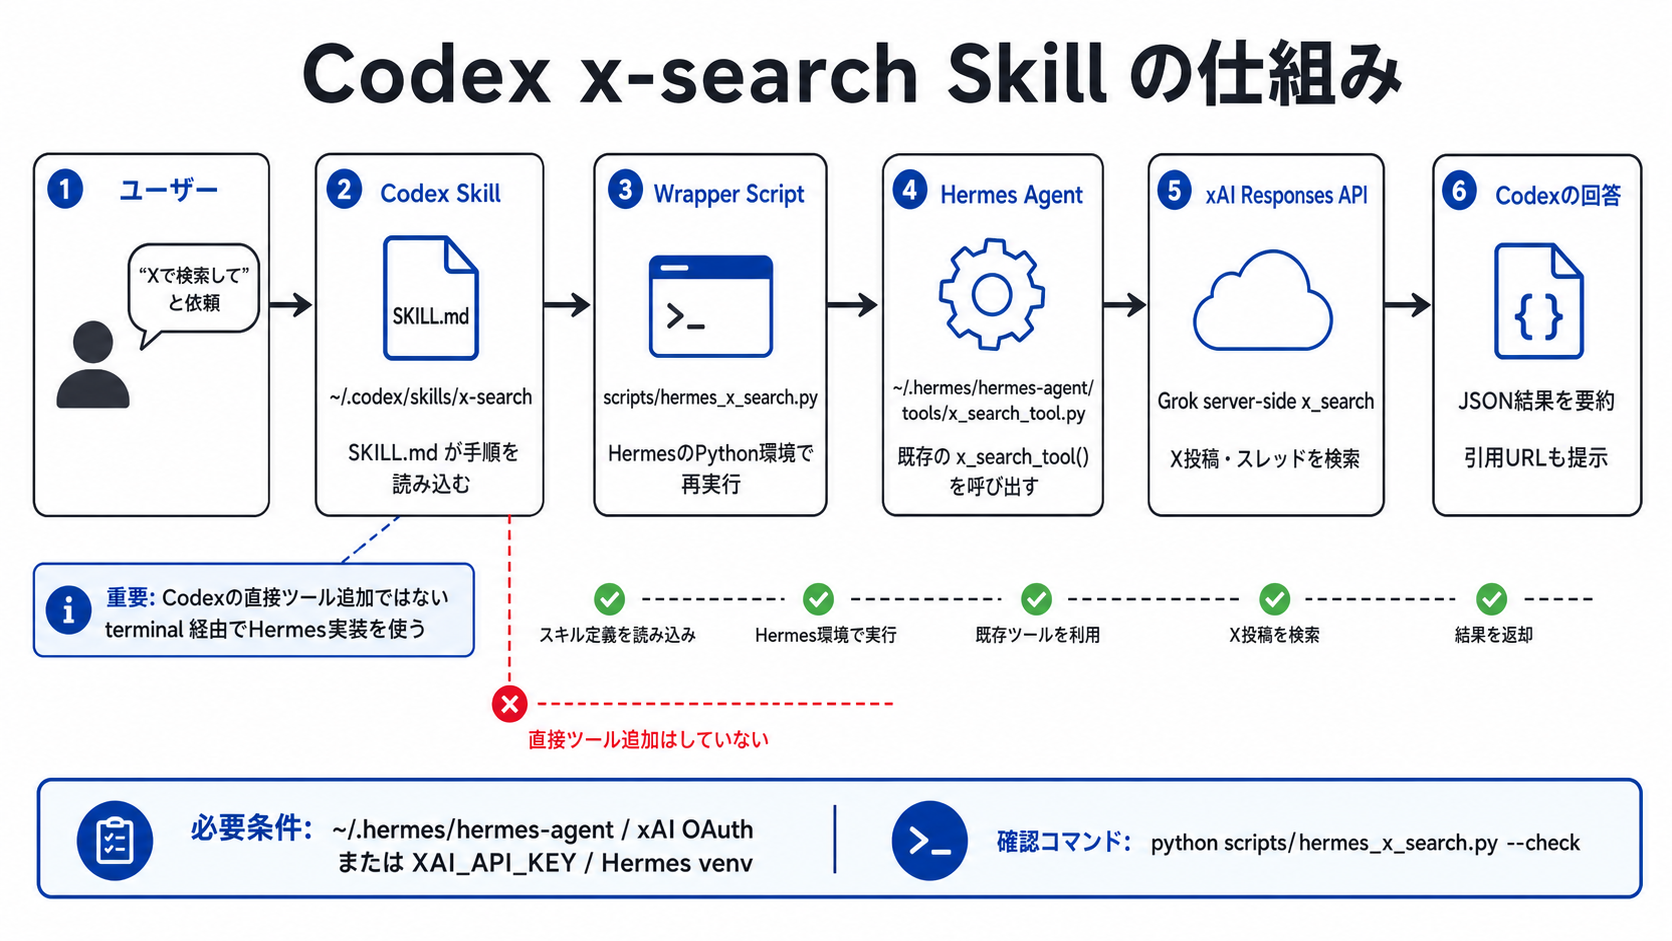
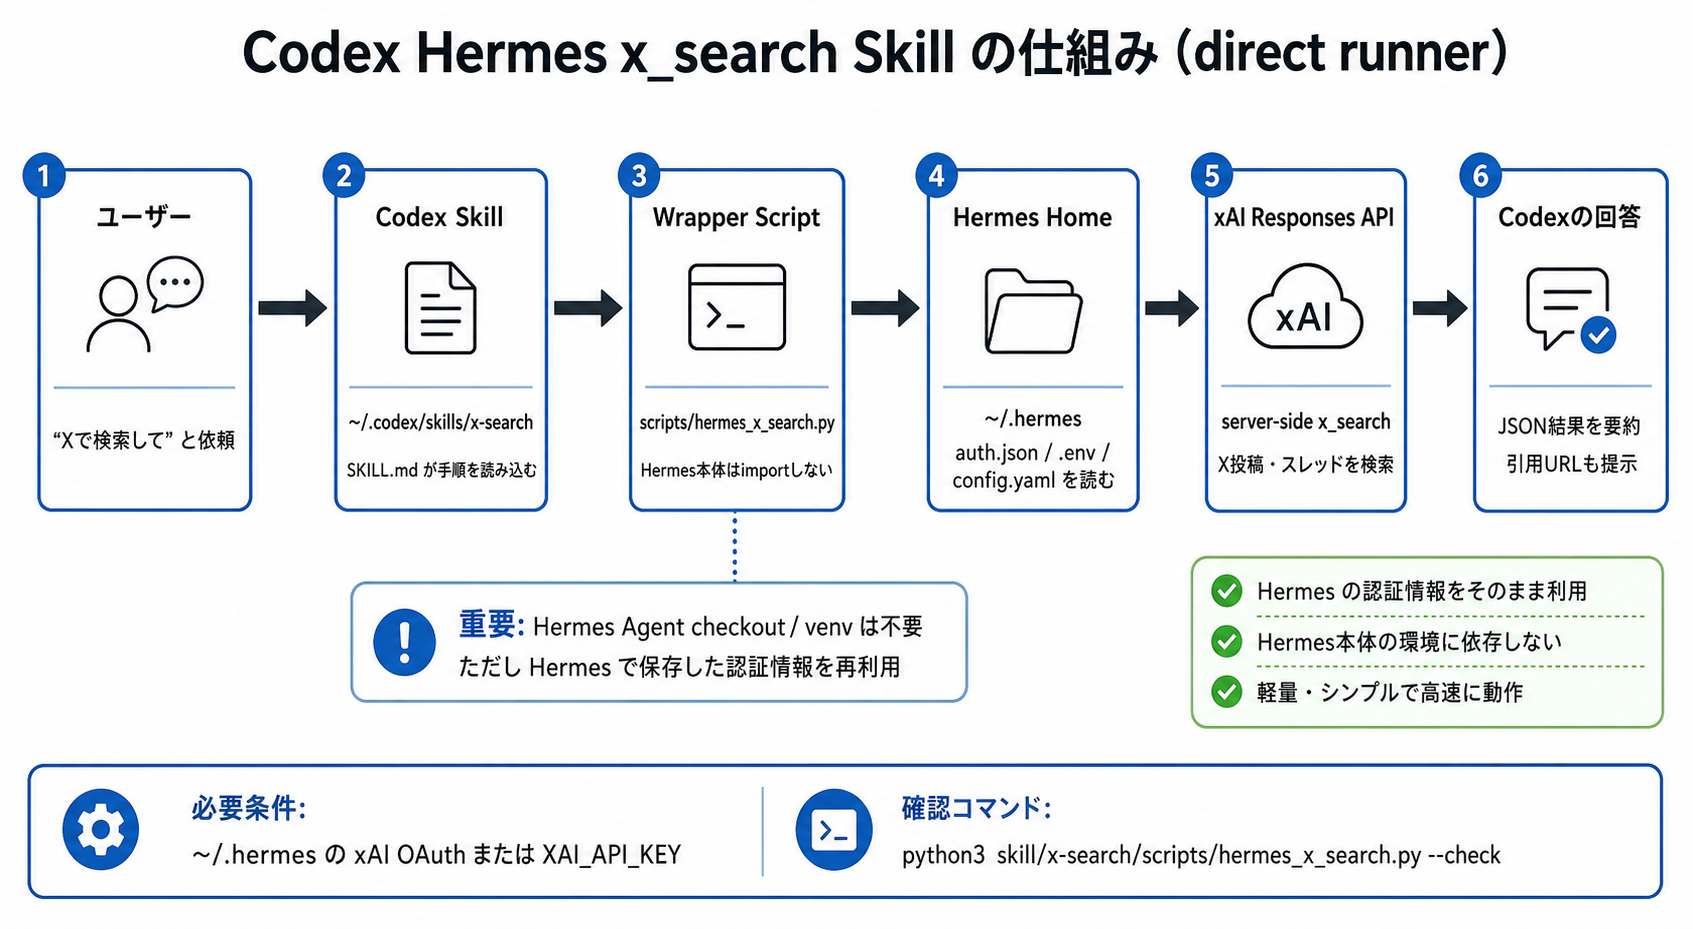
Align docs and diagram with direct runner

Changed region(s): [[0.0, 0.1561, 0.9952, 0.5619], [0.0, 0.5931, 0.9952, 0.9677], [0.1244, 0.0312, 0.9019, 0.1249]]

diff --git a/skill/x-search/SKILL.md b/skill/x-search/SKILL.md
@@ -1,6 +1,6 @@
 ---
 name: x-search
-description: Search X posts through Hermes x_search.
+description: Search X posts using Hermes credentials.
 ---
 
 # X Search Skill